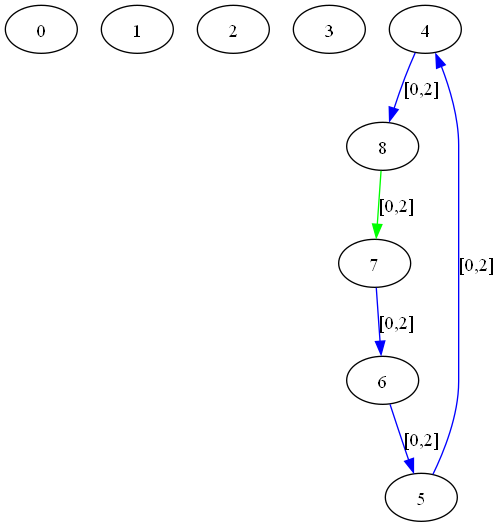
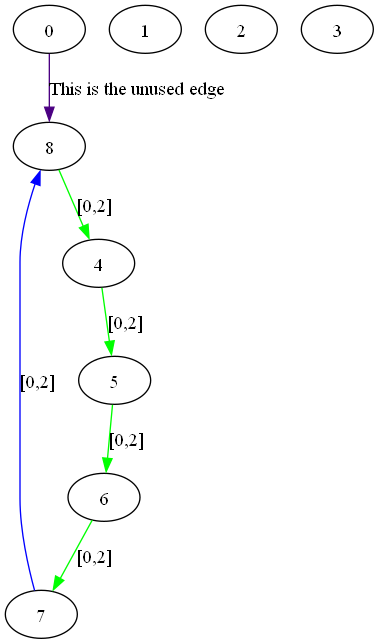
:)

diff --git a/src/RSABuilder.py b/src/RSABuilder.py
@@ -401,10 +401,12 @@ class AllRightBuilder:
             if len(assignments) < i:
                 break
             if self.__pathing == AllRightBuilder.FixedPathType.ENCODED:
-                rsa.rsa_draw.draw_assignment_path_vars(assignments[i-1], self.result_bdd.base, self.get_simple_paths(), 
-                            self.get_unique_channels(), self.__topology, file_path)
+                    rsa.rsa_draw.draw_assignment_path_vars(assignments[i-1], self.result_bdd.base, self.get_simple_paths(), 
+                            self.get_unique_channels(), self.__topology, file_path, failover=self.__failover)                
             else:
-                rsa.rsa_draw.draw_assignment(assignments[i-1], self.result_bdd.base,self.__topology, self.__channel_data.channels, self.__channel_data.unique_channels, self.__channel_data.overlapping_channels, file_path)
+                rsa.rsa_draw.draw_assignment(assignments[i-1], self.result_bdd.base,self.__topology,
+                                              self.__channel_data.channels, self.__channel_data.unique_channels, 
+                                              self.__channel_data.overlapping_channels, file_path)
             
             if not controllable:
                 time.sleep(fps)  
@@ -421,7 +423,7 @@ if __name__ == "__main__":
     # print(p.get_failover_build_time())
     print(":)")
     print(p.result_bdd.expr.count())
-    p.draw(3)
+    p.draw(1000)
     print("Don")
     print(p.result_bdd.expr.count())
     # exit()

diff --git a/src/rsa/rsa_draw.py b/src/rsa/rsa_draw.py
@@ -63,7 +63,7 @@ def draw_assignment(assignment: dict[str, bool], base, topology:MultiDiGraph,
         graph.del_node('"\\n"')
         graph.write_png(file_path + ".png")     
 
-def draw_assignment_path_vars(assignment: dict[str, bool], base, paths: list[list], unique_channels, topology: MultiDiGraph, file_path="../assignedGraphs/assignedRSA"):
+def draw_assignment_path_vars(assignment: dict[str, bool], base, paths: list[list], unique_channels, topology: MultiDiGraph, file_path="../assignedGraphs/assignedRSA", failover = False):
     def power(var: str, type: ET):
         val = int(var.replace(prefixes[type], ""))
         # Total binary vars - var val (hence l1 => |binary vars|)
@@ -84,6 +84,21 @@ def draw_assignment_path_vars(assignment: dict[str, bool], base, paths: list[lis
     
     counting_path_number = {str(k): 0 for k in base.demand_vars.keys()}
     
+
+    if failover: 
+        id_of_edge_removed = 0
+
+        for k, v in assignment.items():
+            if k[0] == prefixes[ET.EDGE] and v: 
+                
+                id_of_edge_removed += power(k, ET.EDGE) 
+        edge = -1
+        for e,i in base.edge_vars.items():
+            if i == id_of_edge_removed: 
+                edge = e
+                break
+        network.add_edge(edge[0], edge[1], label=f"This is the unused edge ", color=color_short_hands[-1])
+
     for k, v in assignment.items():
         if k[0] == prefixes[ET.PATH] and v:
             
